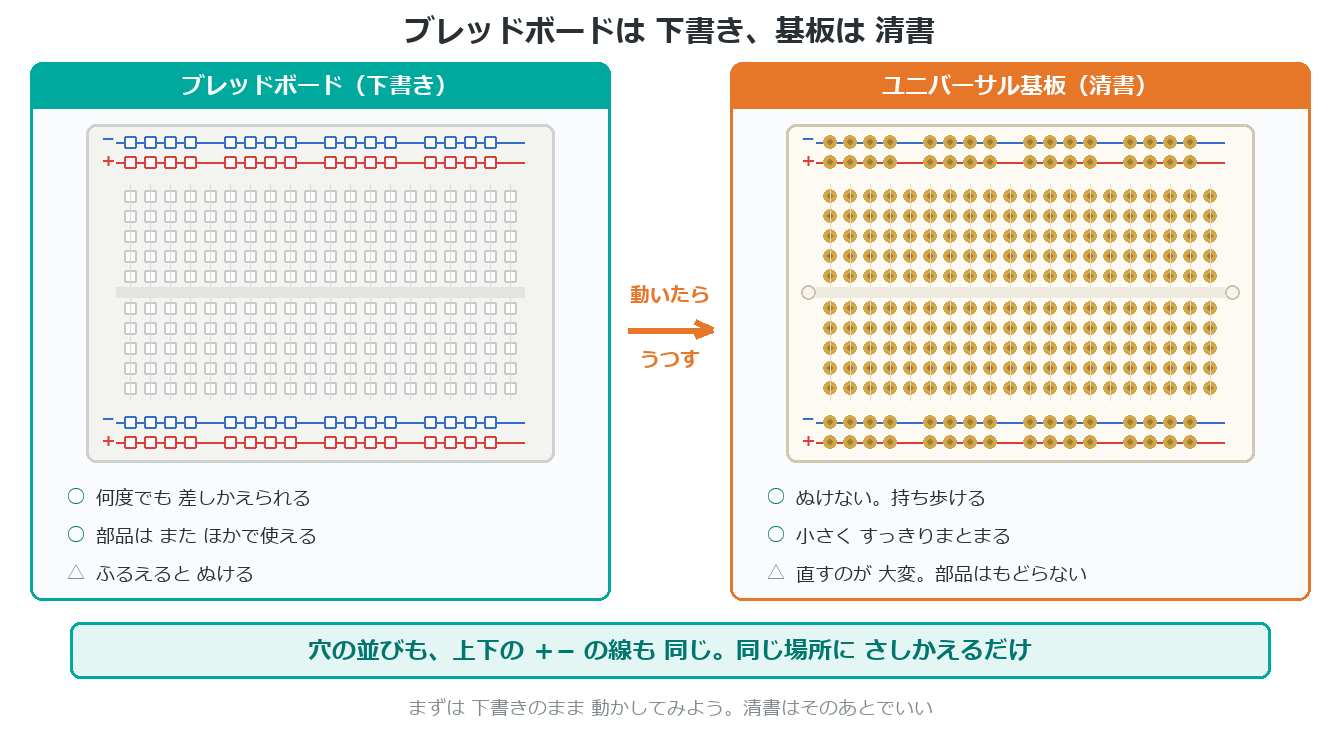
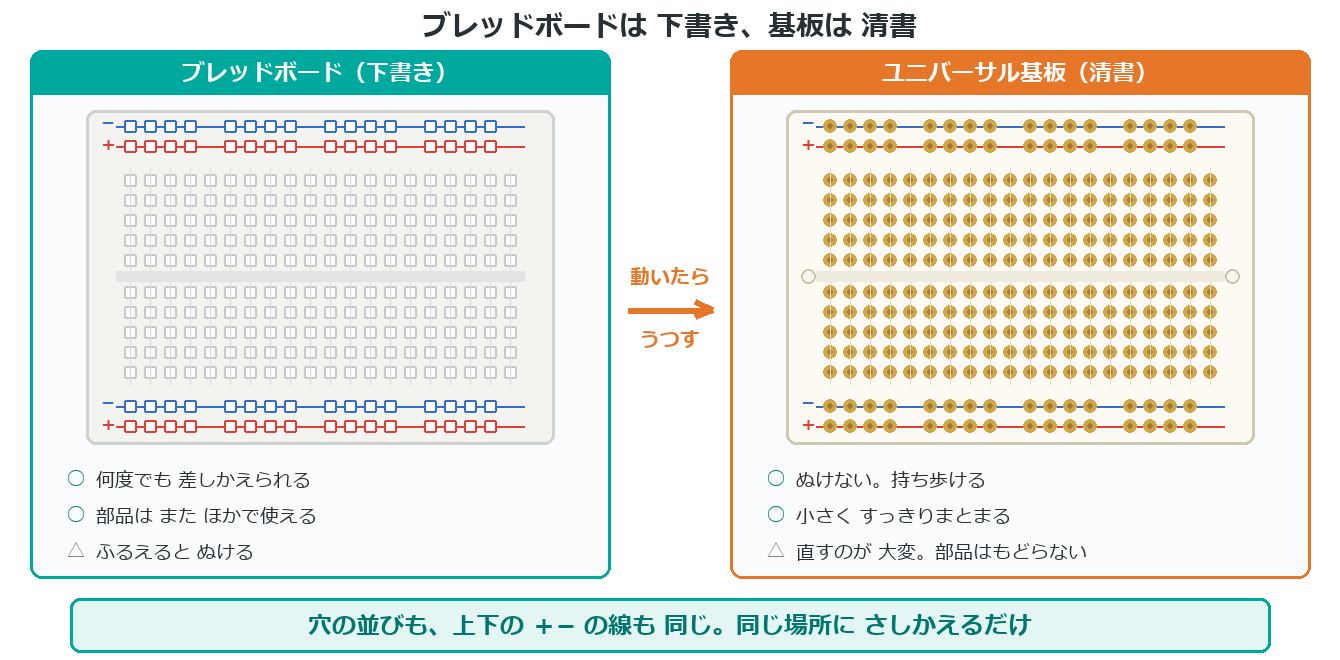
図を縮めてキャプションのはみ出しを直し、ふつうの基板にも触れた
1340x730（1.84）ではキャプションがスライドの外に出ていたので、
図の中の「まずは下書きのまま…」（キャプションと重複していた）を
消して 1340x660（2.03）にした。materials.png の2.0と同じ帯。

「同じ並びの基板がある」を「清書につかう基板」に書きかえ、
2つのえらび方を並べた。ブレッドボード配線パターンはまちがえに
くさのためで、ふつうのユニバーサル基板のほうがずっと小さく
まとまる、という順序で書いている。

diff --git a/docs/p5_frame/index.html b/docs/p5_frame/index.html
@@ -104,17 +104,17 @@
 
 ---
 
-# 同じ並びの基板がある
-ブレッドボードと**そっくり同じ並び**のユニバーサル基板が売られているよ。
+# 清書につかう基板
+ユニバーサル基板には、大きく2つのえらび方があるよ。
 
-- 「**ブレッドボード配線パターン**」という名前で探す
-- 5穴ずつの組も、上下の**＋−の線**も、そのまま同じ
-- 部品を**同じ場所にさしかえる**だけ。配線は考え直さなくていい
+- **ブレッドボード配線パターン** … 並びが同じ。**まちがえにくい**
+- **ふつうのユニバーサル基板** … 自由に配線。**ずっと小さくできる**
 
+> はじめての清書は、**同じ並び**のほうが安心。
+> そのまま さしかえるだけで、配線を考え直さなくていい。
+
+> 小さくまとめたくなったら、ふつうの基板にちょうせん。
 > はんだ付けのやり方は、**付録④**を見てね。
-
-> 清書は、**発表の前の日**にやると あぶない。
-> 早めにうつして、動くことを確かめておこう。
 
 ---
 

diff --git a/CURRICULUM.md b/CURRICULUM.md
@@ -280,6 +280,14 @@ p3_parts は同じ3グループを箇条書きで挙げて p5 に誘導、p5_fra
   実物写真で確認ずみ。並び順も**上下とも 青（−）が外、赤（＋）が内**で bb.py と一致。
 - 実物は**白い基板に金色のランド**（緑ではない）。中央にみぞ、左右に取りつけ穴、
   行の記号と列の番号が印刷されている。`draft_to_board.png` はこの見た目で描いてある。
+- ブレッドボード配線パターンを使うのは、あくまで**まちがえにくさ**のため。
+  5穴の組が固定されているぶん**スペース効率は悪い**ので、
+  **ふつうのユニバーサル基板**のほうがずっと小さくまとまる。
+  スライド「清書につかう基板」で、この2つを並べて示している
+  （はじめては同じ並び → 小さくしたくなったら ふつうの基板）。
+- ⚠ 図の縦横比：1340×660（2.03）。`materials.png` の2.0と同じ帯。
+  **1340×730（1.84）にしたらキャプションがスライドからはみ出した**ので、
+  この章の図は 2.0 前後を目安にする。
 
 **p5 の骨子は2つ**（当初は3つにしていたが、実地の指摘を受けて整理した）
 
